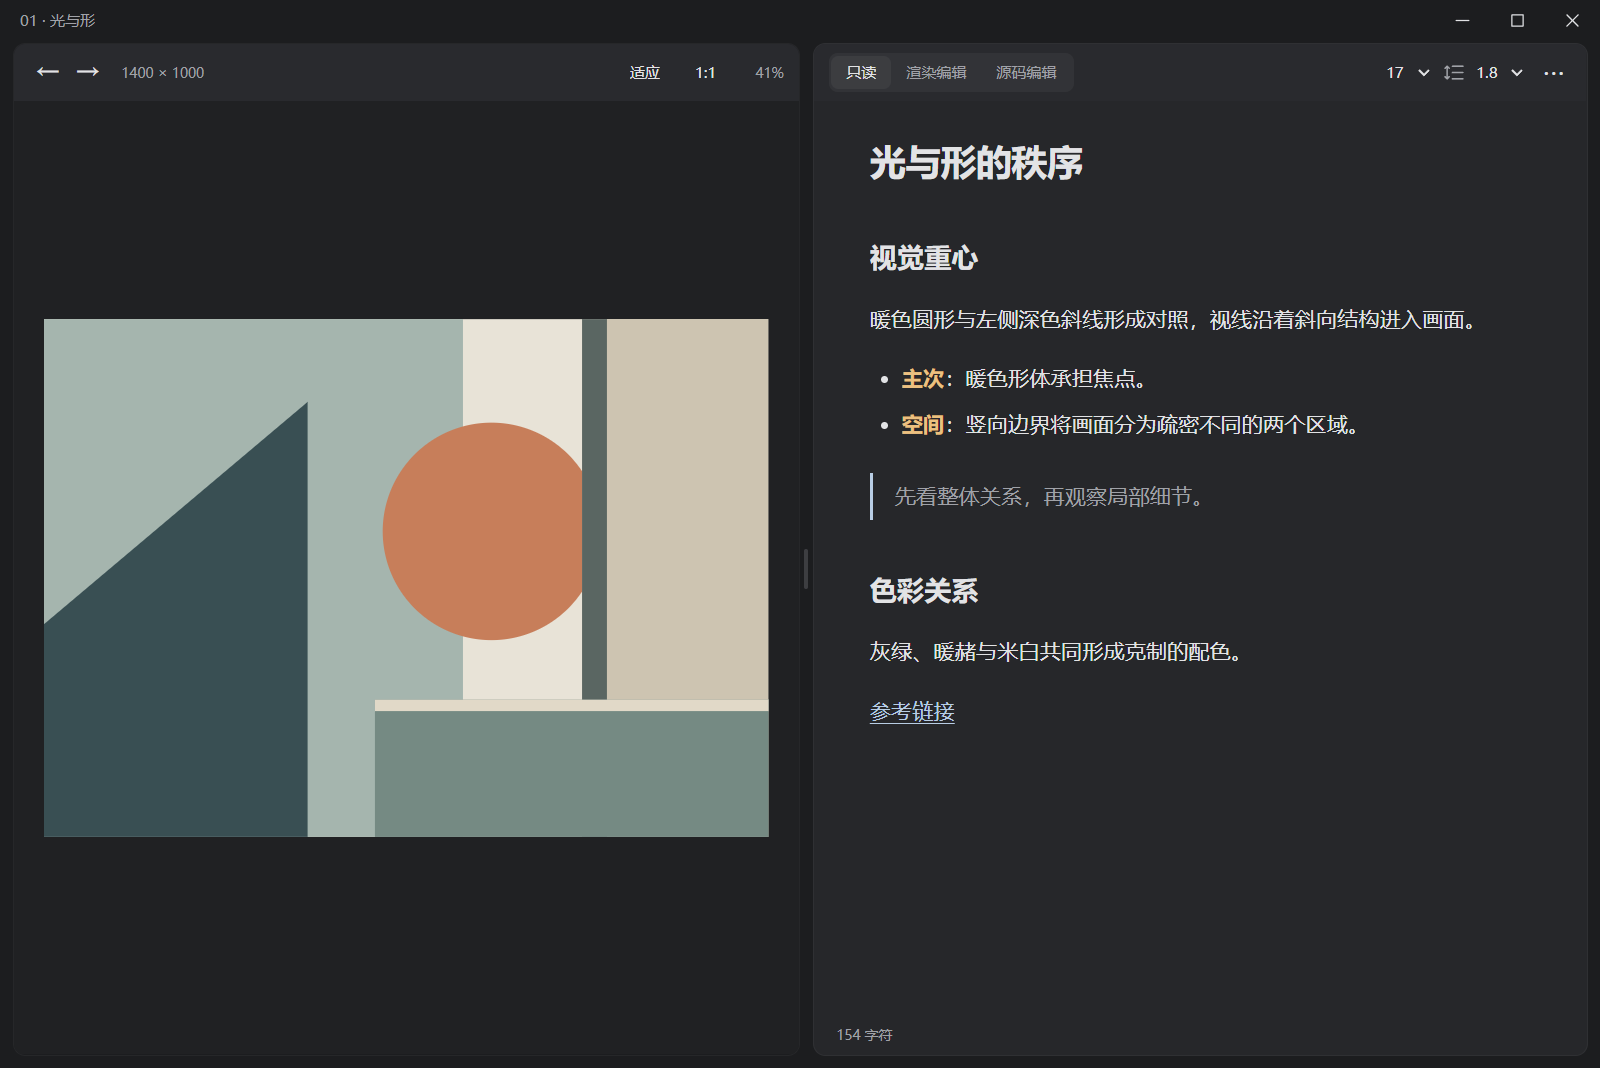
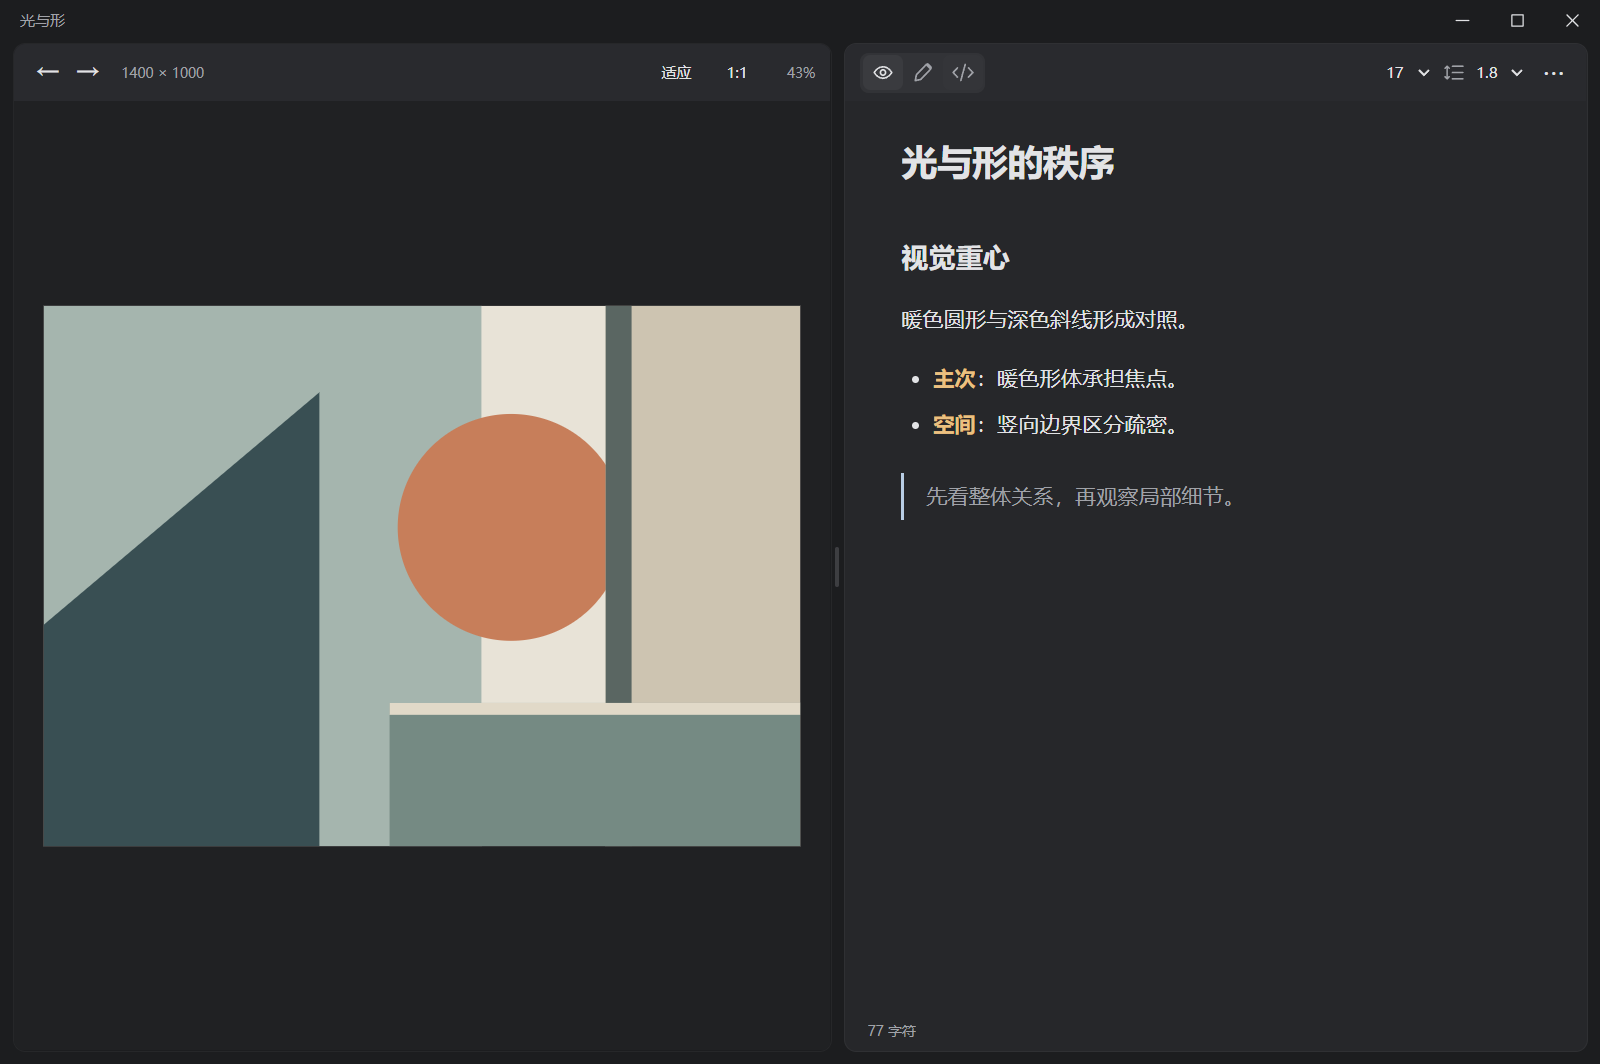
将三种笔记模式改为紧凑图标按钮
保留悬停名称、无障碍标签与选中状态。类型检查、打包及模式切换和窄窗口界面检查通过；保存调用链保持原样。

diff --git a/static/workbench.html b/static/workbench.html
@@ -27,7 +27,11 @@
     <div id="divider" class="divider" role="separator" tabindex="0" aria-label="调整图片与笔记比例" aria-orientation="vertical" aria-valuemin="25" aria-valuemax="75" aria-valuenow="52"></div>
     <section class="note-pane" aria-label="分析笔记">
       <div class="pane-toolbar note-toolbar" aria-label="笔记工具栏">
-        <div class="mode-switch" role="group" aria-label="笔记模式"><button id="read-mode" aria-pressed="true">只读</button><button id="rich-mode" aria-pressed="false">渲染编辑</button><button id="source-mode" aria-pressed="false">源码编辑</button></div>
+        <div class="mode-switch" role="group" aria-label="笔记模式">
+          <button id="read-mode" aria-pressed="true" aria-label="只读" title="只读"><svg width="18" height="18" viewBox="0 0 20 20" aria-hidden="true"><path d="M2 10s3-5 8-5 8 5 8 5-3 5-8 5-8-5-8-5Z"/><circle cx="10" cy="10" r="2.3"/></svg></button>
+          <button id="rich-mode" aria-pressed="false" aria-label="渲染编辑" title="渲染编辑"><svg width="18" height="18" viewBox="0 0 20 20" aria-hidden="true"><path d="m13 3 4 4M4 12l9-9a1.5 1.5 0 0 1 2 0l2 2a1.5 1.5 0 0 1 0 2l-9 9-5 1 1-5Z"/></svg></button>
+          <button id="source-mode" aria-pressed="false" aria-label="源码编辑" title="源码编辑"><svg width="18" height="18" viewBox="0 0 20 20" aria-hidden="true"><path d="m5 6-4 4 4 4m10-8 4 4-4 4M12 3l-4 14"/></svg></button>
+        </div>
         <div class="spacer"></div>
         <select id="font-size" aria-label="字号" title="字号"><option value="14">14</option><option value="15">15</option><option value="16">16</option><option value="17" selected>17</option><option value="18">18</option><option value="20">20</option><option value="22">22</option><option value="24">24</option><option value="28">28</option></select>
         <label class="line-control" title="行距"><svg width="17" height="17" viewBox="0 0 20 20" aria-hidden="true"><path d="M8 4h10M8 10h10M8 16h10M3 4v12M1 6l2-2 2 2M1 14l2 2 2-2"/></svg><select id="line-height" aria-label="行距"><option value="1.4">1.4</option><option value="1.6">1.6</option><option value="1.8" selected>1.8</option><option value="2">2.0</option><option value="2.2">2.2</option><option value="2.4">2.4</option></select></label>

diff --git a/static/style.css b/static/style.css
@@ -109,7 +109,7 @@ svg { fill: none; stroke: currentColor; stroke-width: 1.5; stroke-linecap: round
 .line-control select { width: 49px; }
 .mode-switch { display: flex; padding: 2px; border-radius: 7px; background: var(--line); }
 .mode-switch, .line-control { flex-shrink: 0; }
-.mode-switch button { min-height: 27px; padding: 3px 11px; color: var(--muted); }
+.mode-switch button { width: 32px; min-height: 28px; padding: 4px; display: grid; place-items: center; color: var(--muted); }
 .mode-switch button[aria-pressed="true"] { background: var(--hover); color: var(--text); }
 .more-menu summary { display: grid; place-items: center; width: 28px; font-size: 20px; list-style: none; }
 .more-menu summary::-webkit-details-marker { display: none; }
@@ -196,6 +196,5 @@ svg { fill: none; stroke: currentColor; stroke-width: 1.5; stroke-linecap: round
   .pane-toolbar .muted { display: none; }
   .reading, .rich-editor .ProseMirror { padding: 24px; }
   .cm-content { padding: 24px 20px 50px !important; }
-  .mode-switch button { padding: 3px 8px; }
 }
 @media (prefers-reduced-motion: reduce) { * { transition: none !important; } }

diff --git a/README.md b/README.md
@@ -18,7 +18,7 @@
 
 左侧用滚轮缩放、拖动平移，双击图片或点击「适应」重置视图；「1:1」显示当前图像的原始像素比例。拖动中间分隔线调整双栏比例。窗口上沿可以拖动，右上角提供最小化、最大化与关闭按钮，`F11` 切换全屏。
 
-右侧提供三种模式：
+右侧用眼睛、编辑笔、代码括号三个图标切换模式，悬停显示名称：
 
 - **只读**：阅读排版后的笔记，不修改正文。
 - **渲染编辑**：直接在标题、段落、列表等排版结果中输入，使用格式按钮或快捷键调整文字。
